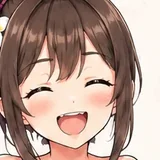
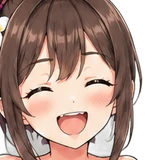
fix: show Mali without circle crops, on a transparent background
Remove the background from the three expression images (isnet-anime)
and drop the round framing: the menu button shows smiling Mali's upper
body, and the chat header and bubble icons show her without a frame.

Claude-Session: https://claude.ai/code/session_01VeBzpeAgkjsVQkN2DQrVaC

diff --git a/chat-v10.js b/chat-v10.js
@@ -23,9 +23,9 @@
   const q = id => document.getElementById(id);
   const MOODS = ["normal", "happy", "surprised"];
   const MOOD_IMAGE = {
-    normal: "images/mali-normal.webp?v=10.1",
-    happy: "images/mali-smile.webp?v=10.1",
-    surprised: "images/mali-surprise.webp?v=10.1"
+    normal: "images/mali-normal.webp?v=10.1.1",
+    happy: "images/mali-smile.webp?v=10.1.1",
+    surprised: "images/mali-surprise.webp?v=10.1.1"
   };
   const moodImage = mood => MOOD_IMAGE[MOODS.includes(mood) ? mood : "normal"];
   const moodFace = mood => moodImage(mood).replace(".webp", "-face.webp");
@@ -49,12 +49,12 @@
     .chat-passcode input,.chat-input-row textarea{font:inherit;padding:10px 12px;border:1px solid var(--border);border-radius:12px;background:#fff}
     .chat-card{display:grid;gap:12px}
     .chat-profile{display:flex;gap:12px;align-items:center;padding:12px 14px;border-radius:16px;background:#fffaf3;border:1px solid var(--border)}
-    .chat-avatar{width:108px;height:144px;flex:none;border-radius:16px;object-fit:cover;object-position:50% 0;background:#fdf6f0;box-shadow:0 4px 12px rgba(255,143,171,.35);transition:transform .2s}
+    .chat-avatar{width:108px;height:144px;flex:none;object-fit:contain;object-position:50% 100%;filter:drop-shadow(0 4px 8px rgba(255,143,171,.35));transition:transform .2s}
     .chat-avatar.pop{animation:chat-pop .35s ease-out}
     @keyframes chat-pop{0%{transform:scale(.94)}60%{transform:scale(1.04)}100%{transform:scale(1)}}
     .chat-row{display:flex;gap:8px;align-items:flex-end;justify-self:start;max-width:94%}
     .chat-row .chat-bubble{max-width:100%}
-    .chat-mini{width:44px;height:44px;flex:none;border-radius:50%;background:#fdf6f0;box-shadow:0 2px 6px rgba(255,143,171,.35)}
+    .chat-mini{width:48px;height:48px;flex:none;filter:drop-shadow(0 2px 4px rgba(255,143,171,.4))}
     .chat-typing .chat-mini,.chat-room-talking .chat-avatar{animation:chat-bob 1s ease-in-out infinite}
     @keyframes chat-bob{0%,100%{transform:translateY(0)}50%{transform:translateY(-4px)}}
     @media (prefers-reduced-motion:reduce){.chat-typing .chat-mini,.chat-room-talking .chat-avatar{animation:none}}
@@ -95,7 +95,7 @@
   button.type = "button";
   button.dataset.mode = "chat";
   button.innerHTML =
-    '<span class="mode-icon" aria-hidden="true"><img src="images/mali-smile-face.webp?v=10.1" alt="" style="width:2.8em;height:2.8em;border-radius:50%;vertical-align:middle"></span>' +
+    '<span class="mode-icon" aria-hidden="true"><img src="images/mali-smile.webp?v=10.1.1" alt="" style="height:120px;width:auto;display:block;margin:0 auto;filter:drop-shadow(0 4px 8px rgba(255,143,171,.35))"></span>' +
     '<span class="mode-title">会話💬🌺</span>' +
     '<span class="mode-description">タイ人の女の子マリとタイ語でチャットする</span>';
   const grid = document.querySelector(".mode-grid");
@@ -112,7 +112,7 @@
 
       <section id="chatSetup" class="chat-setup">
         <div class="chat-profile">
-          <img class="chat-avatar" src="images/mali-normal.webp?v=10.1" alt="" aria-hidden="true">
+          <img class="chat-avatar" src="images/mali-normal.webp?v=10.1.1" alt="" aria-hidden="true">
           <div><strong>มะลิ（マリ）</strong><br><span class="muted">バンコクの大学そばのカフェで働く25歳。タイ語の会話相手になってくれます。</span></div>
         </div>
         <div id="chatPasscodeBox" class="chat-passcode hidden">
@@ -127,7 +127,7 @@
 
       <section id="chatRoom" class="chat-card hidden">
         <div class="chat-profile">
-          <img class="chat-avatar" src="images/mali-normal.webp?v=10.1" alt="" aria-hidden="true">
+          <img class="chat-avatar" src="images/mali-normal.webp?v=10.1.1" alt="" aria-hidden="true">
           <div><strong>มะลิ（マリ）</strong> <span id="chatLevelLabel" class="muted"></span><br>
           <span class="muted">単語をタップすると意味が出て、復習帳にも入れられます🍣<br>📘辞書の単語　🔰基本語　⭐辞書にない単語</span></div>
         </div>

diff --git a/index.html b/index.html
@@ -4826,7 +4826,7 @@ function recordAnswer(question, userAnswer, isCorrect, readingAttempt = "") {
     }
   </script>
   <script src="speaking-v8.js?v=8.5"></script>
-  <script src="chat-v10.js?v=10.1"></script>
+  <script src="chat-v10.js?v=10.1.1"></script>
   <script src="interface-v9.js?v=9.0"></script>
 </body>
 </html>
